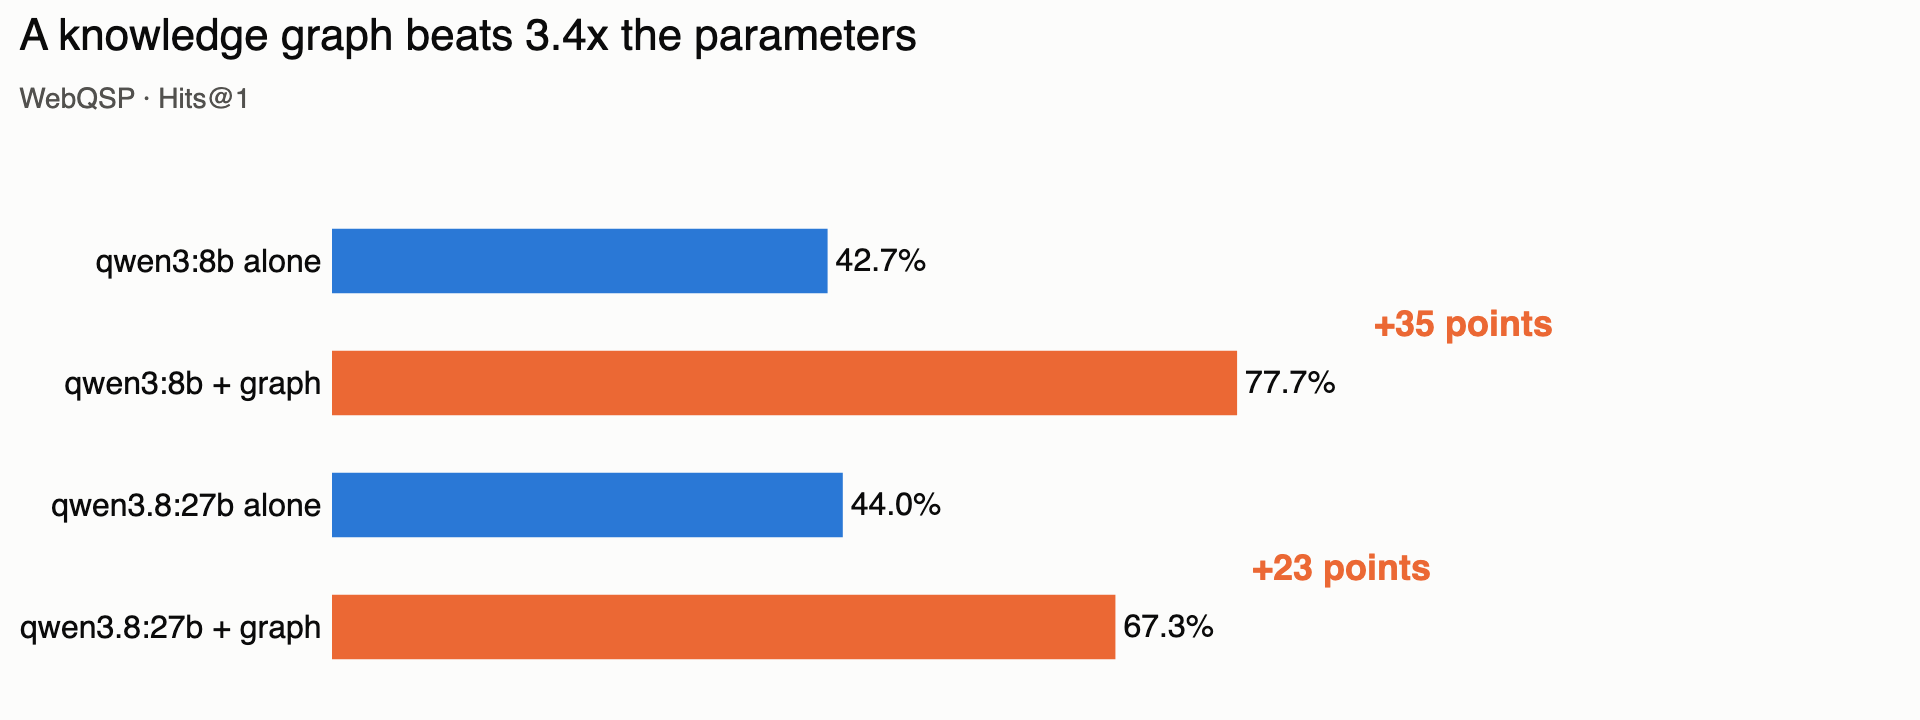
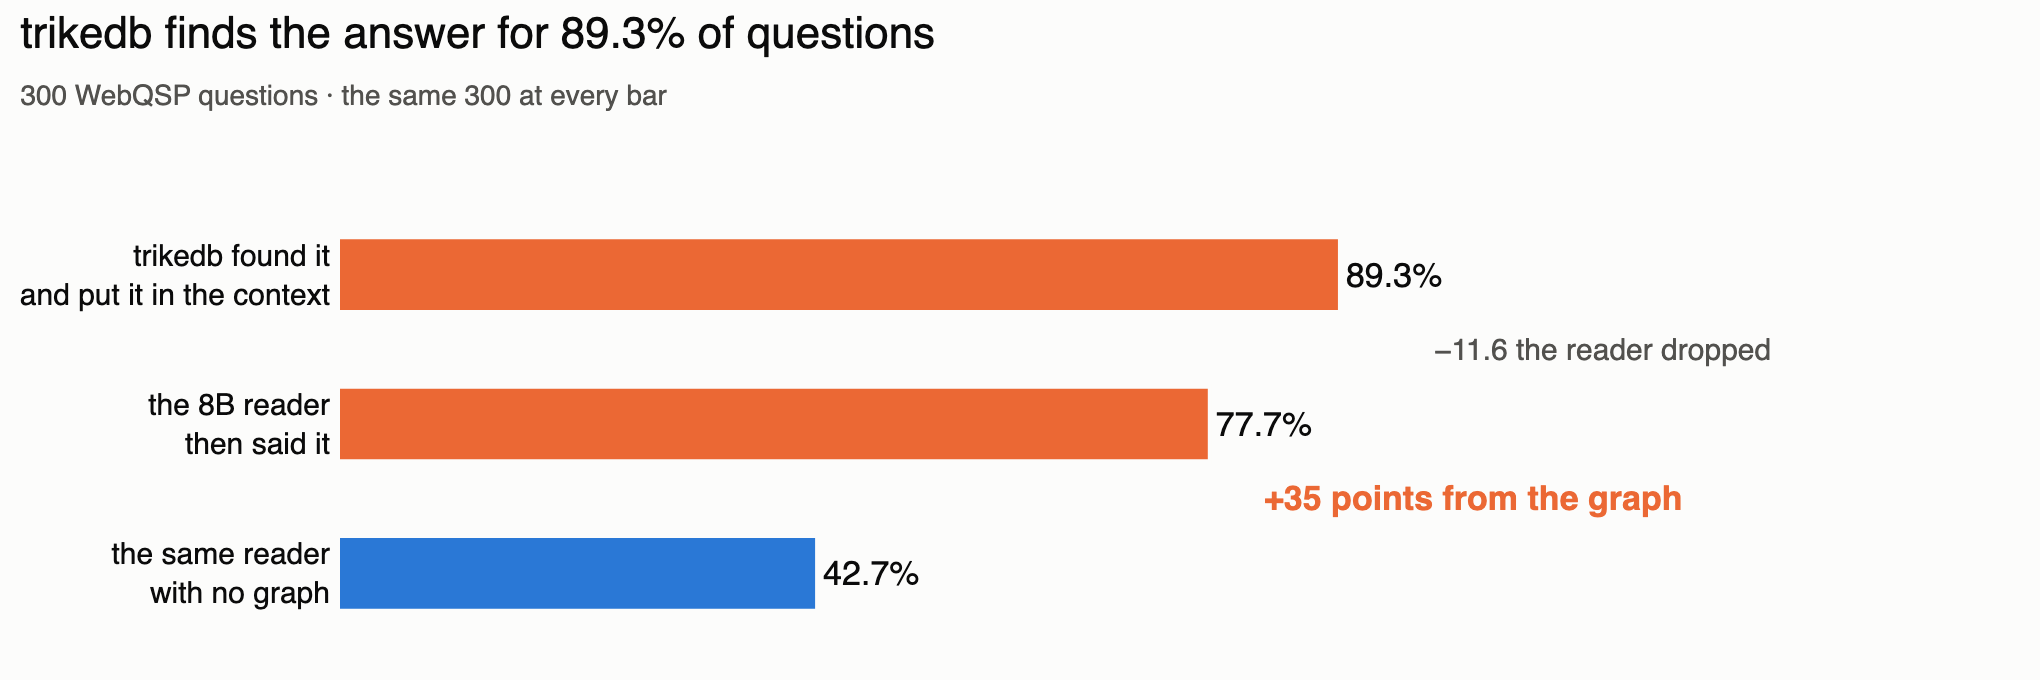
benchmarks: 精度の図を「競合」から「段階」に。89.3% が図の一番上に来た
89.3% を図に入れたいが精度と混同させたくない、という要求は両立できた。
並べるのをやめて段階として重ねればよかった。

  trikedb が見つけて文脈に入れた   89.3%
        −11.6 リーダーが落とした
  8Bのリーダーがそれを言えた       77.7%
        グラフで +35 ポイント
  同じリーダー、グラフなし         42.7%

89.3% と 77.7% は競合する2つの数字ではなく、同じ300問が通る2つの段階である。
ライバルの棒として描いたのが以前この図を読めなくしていた原因で、段階として
描くと差がどこで発生しているかが読める — 上2本の隙間は、渡されたのにリーダーが
落とした38問である。

数字は変えていない。分母はどの棒も300問全部で、副題にもそう書いた。それが
同じ軸を共有できる唯一の理由なので。

モデルサイズの発見（グラフなしで8B≈27B、p=1.0）は表と本文に残した。図を
1つに絞ったので、そちらは数字で読む形になる。

diff --git a/benchmarks/accuracy_chart.py b/benchmarks/accuracy_chart.py
@@ -41,66 +41,92 @@ WITH_GRAPH = "#eb6834"
 #: model's before/after sits adjacent — interleaving the conditions put the two
 #: halves of the comparison four rows apart, and a jump you have to hunt for is
 #: a jump nobody sees.
+#: Stages, not competitors. 89.3% and 77.7% are the same 300 questions at two
+#: points in one pipeline — what trikedb put in front of the model, and what
+#: the model then said. Drawing them as rival bars is what made an earlier
+#: version of this figure unreadable; drawing them as stages is what makes the
+#: loss legible, because the gap between the top two bars is the reader
+#: dropping answers it was handed.
+#:
+#: The bottom bar is the same reader with no graph. Every bar is over all 300
+#: questions with nothing excluded, which is the only reason they can share an
+#: axis at all.
+REACH = 89.3
 ROWS = [
-    ("ans_hybrid_grounded_27b.jsonl", "qwen3.8:27b", True),
-    ("ans_nograph_27b.jsonl", "qwen3.8:27b", False),
-    ("ans_hybrid_grounded_8b.jsonl", "qwen3:8b", True),
-    ("ans_nograph_8b.jsonl", "qwen3:8b", False),
+    ("ans_nograph_8b.jsonl", "baseline", False),
+    ("ans_hybrid_grounded_8b.jsonl", "reader", True),
+    (None, "reach", True),
 ]
 
 #: A translated doc deserves a translated figure — a reader who chose 日本語
 #: should not have to read the one image in English. Only the words move; every
 #: number and every colour is the same file of data.
 TEXT = {
-    "en": {"title": "A knowledge graph beats 3.4x the parameters",
-           "sub": "WebQSP · Hits@1", "with": "{m} + graph", "without": "{m} alone",
-           "delta": "{d:+.0f} points"},
-    "jp": {"title": "グラフはパラメータ3.4倍より効く",
-           "sub": "WebQSP · Hits@1", "with": "{m} + グラフ", "without": "{m} 単体",
-           "delta": "{d:+.0f} ポイント"},
-    "zh": {"title": "知识图谱胜过 3.4 倍的参数",
-           "sub": "WebQSP · Hits@1", "with": "{m} + 图谱", "without": "{m} 单独",
-           "delta": "{d:+.0f} 个百分点"},
+    "en": {
+        "title": "trikedb finds the answer for 89.3% of questions",
+        "sub": "300 WebQSP questions · the same 300 at every bar",
+        "reach": "trikedb found it<br>and put it in the context",
+        "reader": "the 8B reader<br>then said it",
+        "baseline": "the same reader<br>with no graph",
+        "delta": "{d:+.0f} points from the graph",
+        "loss": "−{d:.1f} the reader dropped",
+    },
+    "jp": {
+        "title": "trikedb は89.3%の質問で正解を見つける",
+        "sub": "WebQSP 300問 · どの棒も同じ300問",
+        "reach": "trikedb が見つけて<br>文脈に入れた",
+        "reader": "8Bのリーダーが<br>それを言えた",
+        "baseline": "同じリーダー<br>グラフなし",
+        "delta": "グラフで {d:+.0f} ポイント",
+        "loss": "−{d:.1f} リーダーが落とした",
+    },
+    "zh": {
+        "title": "trikedb 在 89.3% 的题目上找到了答案",
+        "sub": "300 道 WebQSP 题 · 每根柱子都是同一批 300 题",
+        "reach": "trikedb 找到了它<br>并放进上下文",
+        "reader": "8B 阅读模型<br>把它说出来了",
+        "baseline": "同一个阅读模型<br>没有图谱",
+        "delta": "图谱带来 {d:+.0f} 个百分点",
+        "loss": "−{d:.1f} 被阅读模型丢掉",
+    },
 }
 
-#: (lower row, upper row) whose gap gets a delta callout. The number this
-#: benchmark exists to produce is a *difference*, and a difference the reader
-#: has to compute by eye is one they will not compute.
-DELTAS = [("ans_nograph_8b.jsonl", "ans_hybrid_grounded_8b.jsonl"),
-          ("ans_nograph_27b.jsonl", "ans_hybrid_grounded_27b.jsonl")]
+#: Two gaps, and they mean opposite things: what the graph added, and what the
+#: reader then lost. Both are differences a reader will not compute by eye.
 
 
 def main(lang: str = "en") -> None:
     words = TEXT[lang]
     scored = {r["answers"]: r for r in json.loads((HERE / "accuracy_data.json").read_text())}
-    rows = [((words["with"] if graph else words["without"]).format(m=model),
-             graph, scored[name])
-            for name, model, graph in ROWS if name in scored]
-    if not rows:
-        raise SystemExit("no rows matched accuracy_data.json — check ROWS")
+
+    values = []
+    for name, key, graph in ROWS:
+        value = REACH if name is None else scored[name]["hits_at_1"]
+        values.append((words[key], value, graph))
 
     figure = go.Figure(go.Bar(
-        y=[label for label, _, _ in rows],
-        x=[r["hits_at_1"] for _, _, r in rows],
+        y=[label for label, _, _ in values],
+        x=[value for _, value, _ in values],
         orientation="h",
-        marker=dict(color=[WITH_GRAPH if g else WITHOUT_GRAPH for _, g, _ in rows],
+        marker=dict(color=[WITH_GRAPH if g else WITHOUT_GRAPH for _, _, g in values],
                     line=dict(color=SURFACE, width=2)),
-        text=[f"{r['hits_at_1']:.1f}%" for _, _, r in rows],
+        text=[f"{value:.1f}%" for _, value, _ in values],
         textposition="outside", cliponaxis=False,
-        textfont=dict(size=16, color=INK),
-        hovertemplate="%{y}<br>Hits@1 %{x:.1f}%<extra></extra>",
+        textfont=dict(size=17, color=INK),
+        hovertemplate="%{y}<br>%{x:.1f}% of 300 questions<extra></extra>",
     ))
 
-    index = {name: i for i, (name, _, _) in enumerate(ROWS) if name in scored}
-    for low, high in DELTAS:
-        if low in index and high in index:
-            gain = scored[high]["hits_at_1"] - scored[low]["hits_at_1"]
-            figure.add_annotation(
-                x=scored[high]["hits_at_1"], y=(index[low] + index[high]) / 2,
-                text=f"<b>{words['delta'].format(d=gain)}</b>",
-                showarrow=False, xshift=112,
-                font=dict(size=18, color=WITH_GRAPH),
-            )
+    reach, reader, baseline = REACH, values[1][1], values[0][1]
+    figure.add_annotation(
+        x=reader, y=0.5, xshift=132, showarrow=False,
+        text=f"<b>{words['delta'].format(d=reader - baseline)}</b>",
+        font=dict(size=17, color=WITH_GRAPH),
+    )
+    figure.add_annotation(
+        x=reach, y=1.5, xshift=132, showarrow=False,
+        text=words["loss"].format(d=reach - reader),
+        font=dict(size=15, color=INK_MUTED),
+    )
 
     figure.update_layout(
         title=dict(
@@ -109,14 +135,14 @@ def main(lang: str = "en") -> None:
                   f"{words['sub']}</span>"),
             font=dict(size=22, color=INK), x=0.01, xanchor="left", y=0.93,
         ),
-        bargap=0.44,
+        bargap=0.5,
         paper_bgcolor=SURFACE, plot_bgcolor=SURFACE,
-        font=dict(family="Helvetica, Arial, sans-serif", color=INK, size=16),
+        font=dict(family="Helvetica, Arial, sans-serif", color=INK, size=15),
         xaxis=dict(range=[0, 100], showgrid=False, zeroline=False,
                    showticklabels=False),
         yaxis=dict(showgrid=False, zeroline=False, linecolor=SURFACE),
         showlegend=False,
-        margin=dict(l=10, r=210, t=100, b=16), width=960, height=360,
+        margin=dict(l=10, r=290, t=100, b=16), width=1020, height=340,
     )
     out = HERE / ("accuracy.png" if lang == "en" else f"accuracy_{lang}.png")
     figure.write_image(out, scale=2)

diff --git a/benchmarks/README_jp.md b/benchmarks/README_jp.md
@@ -37,9 +37,10 @@
 p = 0.27）。リーダーを差し替えるなら、「分からなければそう言え」という指示も
 調整し直す必要があります。
 
-**検索は89.3%の質問で正解を文脈に入れられています。** 端から端まで77.7%という
-ことは、渡した分のうち85.8%をモデルが正解に変えたということです。残る差はリーダー
-側で、グラフ側ではありません。
+上の図は1本のパイプラインとして読めます。同じ300問のうち、trikedbが89.3%で正解を
+文脈に入れ、リーダーがそのうち77.7%を正解に変えました。差の11.6ポイントは、正解が
+モデルの目の前にあったのに出てこなかった38問です。つまり同じ検索で完璧なリーダー
+なら89.3%になり、ここでの上限はリーダー側にあってグラフ側にはありません。
 
 ## 速度
 

diff --git a/benchmarks/README.md b/benchmarks/README.md
@@ -37,9 +37,12 @@ those had the answer in the context. Restrict to the 120 questions both
 answered and the difference disappears (88.3% against 84.2%, p = 0.27). Swap
 the reader and the abstention instruction needs retuning.
 
-**Retrieval reached the answer for 89.3% of questions**, so 77.7% end to end
-means the model converted 85.8% of what it was handed. The remaining gap is the
-reader, not the graph.
+The chart above reads as one pipeline: of the same 300 questions, trikedb put
+the answer in the context for 89.3%, and the reader turned 77.7% of them into a
+correct answer. The 11.6-point gap is 38 questions whose answer was in front of
+the model and did not come out of it — so a perfect reader on this same
+retrieval would score 89.3%, and the ceiling here belongs to the reader, not
+the graph.
 
 ## Speed
 

diff --git a/benchmarks/README_zh.md b/benchmarks/README_zh.md
@@ -35,8 +35,10 @@
 作答的那 120 题，差异就消失了（88.3% 对 84.2%，p = 0.27）。换阅读模型的话，那条
 「不知道就说不知道」的指令也需要重新调。
 
-**检索在 89.3% 的题目上把答案放进了上下文。** 端到端 77.7% 意味着模型把递给它的
-内容转化了 85.8%。剩下的差距在阅读模型，不在图谱。
+上面这张图可以当成一条流水线来读：在同一批 300 道题里，trikedb 有 89.3% 把答案放进
+了上下文，而阅读模型把其中 77.7% 变成了正确答案。相差的 11.6 个百分点是 38 道题 —
+答案就在模型眼前，却没有从它嘴里出来。也就是说，在同样的检索上换一个完美的阅读
+模型就是 89.3%，这里的天花板属于阅读模型，不属于图谱。
 
 ## 速度
 
